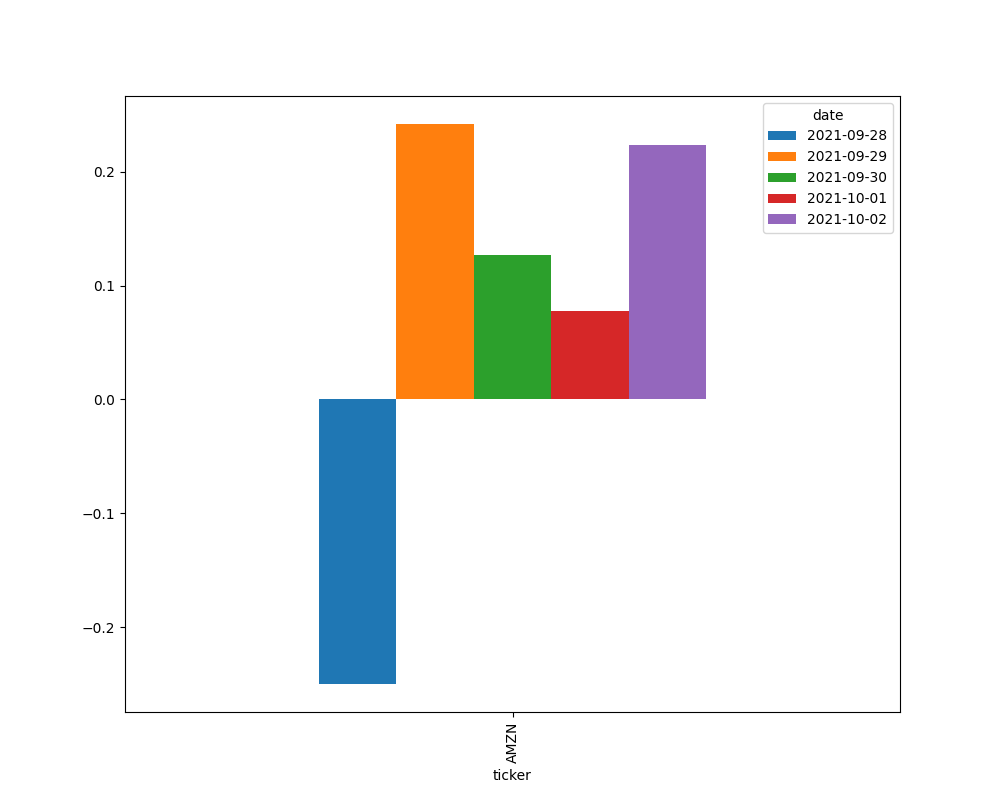
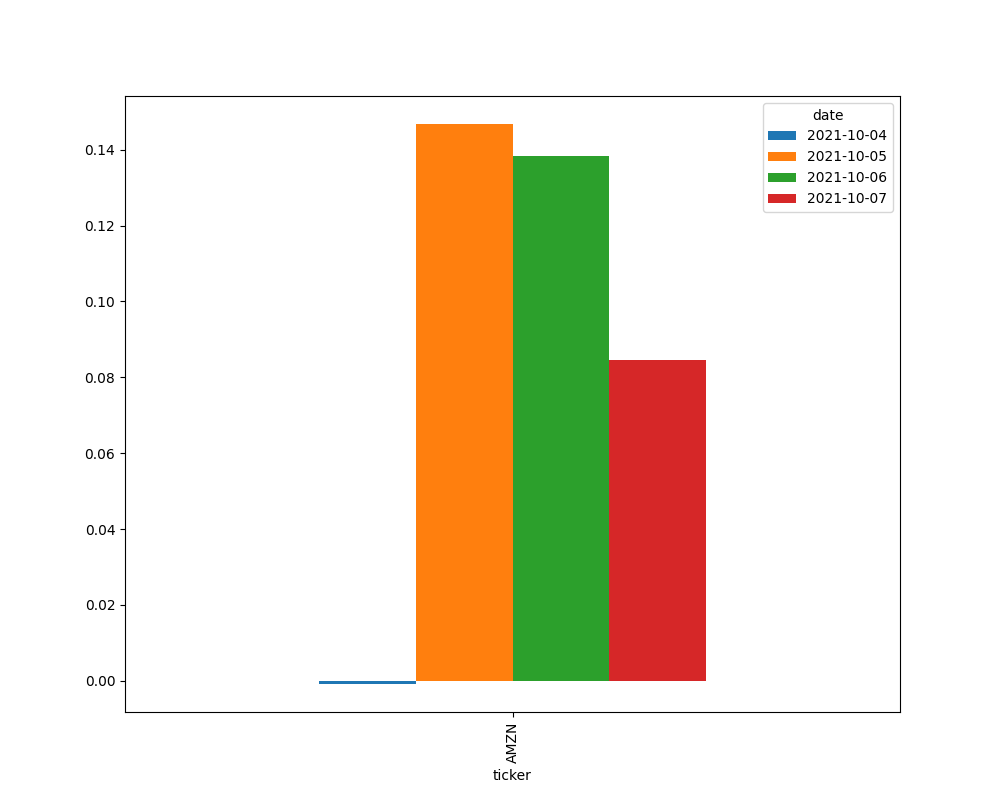
User Integeration

diff --git a/templates/StockNews/home.html b/templates/StockNews/home.html
@@ -1,26 +1,43 @@
-<!-- <!DOCTYPE html>
-{% load static %}
 <!DOCTYPE html>
 <html lang="en">
-<head>
-  <meta charset="UTF-8">
-  <meta http-equiv="X-UA-Compatible" content="IE=edge">
-  <meta name="viewport" content="width=device-width, initial-scale=1.0">
-  <title>Document</title>
-</head>
-<body>
-  <p>Welcome to Stock Market</p>
-</body>
-</html> -->
-<html lang="en" dir="ltr">
+  
   <head>
     <meta charset="utf-8">
-    <link rel="stylesheet" href="{% static 'css/home.css' %}">
     <link rel="stylesheet" href="https://maxcdn.bootstrapcdn.com/bootstrap/4.0.0/css/bootstrap.min.css" integrity="sha384-Gn5384xqQ1aoWXA+058RXPxPg6fy4IWvTNh0E263XmFcJlSAwiGgFAW/dAiS6JXm" crossorigin="anonymous">
     <script src="https://code.jquery.com/jquery-3.2.1.slim.min.js" integrity="sha384-KJ3o2DKtIkvYIK3UENzmM7KCkRr/rE9/Qpg6aAZGJwFDMVNA/GpGFF93hXpG5KkN" crossorigin="anonymous"></script>
     <script src="https://cdnjs.cloudflare.com/ajax/libs/popper.js/1.12.9/umd/popper.min.js" integrity="sha384-ApNbgh9B+Y1QKtv3Rn7W3mgPxhU9K/ScQsAP7hUibX39j7fakFPskvXusvfa0b4Q" crossorigin="anonymous"></script>
     <script src="https://maxcdn.bootstrapcdn.com/bootstrap/4.0.0/js/bootstrap.min.js" integrity="sha384-JZR6Spejh4U02d8jOt6vLEHfe/JQGiRRSQQxSfFWpi1MquVdAyjUar5+76PVCmYl" crossorigin="anonymous"></script>
+
+    <link rel="stylesheet" href="//code.jquery.com/ui/1.12.1/themes/base/jquery-ui.css">
+  
+    <script src="https://code.jquery.com/jquery-3.6.0.min.js" integrity="sha256-/xUj+3OJU5yExlq6GSYGSHk7tPXikynS7ogEvDej/m4=" crossorigin="anonymous"></script>
+    <script src="https://code.jquery.com/ui/1.12.0/jquery-ui.min.js" integrity="sha256-eGE6blurk5sHj+rmkfsGYeKyZx3M4bG+ZlFyA7Kns7E=" crossorigin="anonymous"></script>
+  
     <title>Financial News Analysis</title>
+
+    <script>
+      $( function() {
+        var availableTags = [
+          "Amazon",
+          "Tesla",
+          "Google",
+          "Apple",
+          "Facebook",
+          "Twitter",
+          "Credit Suisse",
+          "Pfizer Inc",
+          "Microsoft Corporation",
+          "Tata Motors Limited",
+          "Infosys Limited",
+          "Wipro Limited",
+          "Accenture plc",
+          "Reliance Global Group Inc"
+        ];
+        $( "#tags" ).autocomplete({
+          source: availableTags
+        });
+      } );
+      </script>
   </head>
   <body>
     
@@ -33,11 +50,11 @@
       <div class="row">
         <div class="col-sm-4">
 
-          <form class="" action="/home/search" method="post">
+          <form class="" action="search" method="post">
             <div class="row" style="margin-top:20px;">
               {% csrf_token %}
                 <div class="col-sm-10">
-                  <input class="form-control" type="search" name = "search_text" placeholder="Enter Company Name" aria-label="Search">
+                  <input class="form-control" type="search" id="tags" name = "search_text" placeholder="Enter Company Name" aria-label="Search">
                 </div>
                 <div class="col-sm-2">
                   <button class="btn btn-outline-success" type="submit" style="margin-left:-20px;">Search</button>
@@ -50,7 +67,7 @@
           </div>
           <div class="col-sm-10 mt-4 ml-2" id = "state_map">
             {{html_code|safe}}
-          </div>
+          </div>  
           {% endif %} -->
         </div>
         

diff --git a/templates/StockNews/test.html b/templates/StockNews/test.html
@@ -1,0 +1,12 @@
+<!DOCTYPE html>
+<html lang="en">
+<head>
+    <meta charset="UTF-8">
+    <meta http-equiv="X-UA-Compatible" content="IE=edge">
+    <meta name="viewport" content="width=device-width, initial-scale=1.0">
+    <title>Document</title>
+</head>
+<body>
+    <h1>Hello</h1>
+</body>
+</html>

diff --git a/StockNews/views.py b/StockNews/views.py
@@ -14,57 +14,63 @@ def greetings(request):
     res = render(request,'StockNews/home.html')
     return res
 
+def test(request):
+    return render(request, 'StockNews/test.html')
 # return home page with visualization
 def search(request):
-    
+    if request.method == 'POST':
+        company_name = request.POST['search_text']
+        company_ticker_data = pd.read_excel("companies.xlsx")
+        company_ticker = company_ticker_data.loc[company_ticker_data['company'] == company_name, 'ticker'].iloc[0]
+        finviz_url = 'https://finviz.com/quote.ashx?t='
+        tickers = []
+        tickers.append(company_ticker)
 
-    finviz_url = 'https://finviz.com/quote.ashx?t='
-    tickers = ['AMZN']
+        news_tables = {}
+        for ticker in tickers:
+            url = finviz_url + ticker
 
-    news_tables = {}
-    for ticker in tickers:
-        url = finviz_url + ticker
+            req = Request(url=url, headers={'user-agent': 'my-app'})
+            response = urlopen(req)
 
-        req = Request(url=url, headers={'user-agent': 'my-app'})
-        response = urlopen(req)
+            html = BeautifulSoup(response, features='html.parser')
+            news_table = html.find(id='news-table')
+            news_tables[ticker] = news_table
 
-        html = BeautifulSoup(response, features='html.parser')
-        news_table = html.find(id='news-table')
-        news_tables[ticker] = news_table
+        parsed_data = []
 
-    parsed_data = []
+        for ticker, news_table in news_tables.items():
 
-    for ticker, news_table in news_tables.items():
+            for row in news_table.findAll('tr'):
 
-        for row in news_table.findAll('tr'):
+                title = row.a.text
+                date_data = row.td.text.split(' ')
 
-            title = row.a.text
-            date_data = row.td.text.split(' ')
+                if len(date_data) == 1:
+                    time = date_data[0]
+                else:
+                    date = date_data[0]
+                    time = date_data[1]
 
-            if len(date_data) == 1:
-                time = date_data[0]
-            else:
-                date = date_data[0]
-                time = date_data[1]
+                parsed_data.append([ticker, date, time, title])
+        
+        df = pd.DataFrame(parsed_data, columns=['ticker', 'date', 'time', 'title'])
 
-            parsed_data.append([ticker, date, time, title])
-    print(parsed_data);
-    df = pd.DataFrame(parsed_data, columns=['ticker', 'date', 'time', 'title'])
+        vader = SentimentIntensityAnalyzer()
 
-    vader = SentimentIntensityAnalyzer()
+        f = lambda title: vader.polarity_scores(title)['compound']
+        df['compound'] = df['title'].apply(f)
+        df['date'] = pd.to_datetime(df.date).dt.date
 
-    f = lambda title: vader.polarity_scores(title)['compound']
-    df['compound'] = df['title'].apply(f)
-    df['date'] = pd.to_datetime(df.date).dt.date
+        # plt.figure(figsize=(10,8))
+        mean_df = df.groupby(['ticker', 'date']).mean().unstack()
+        mean_df = mean_df.xs('compound', axis="columns")
+        plot = mean_df.plot(figsize=(10,8),kind='bar')
+        # plt.show()
+        fig = plot.get_figure()
+        fig.savefig("static/images/output.png")
+        
+        # res = render(request,'StockNews/home.html')
+        res = render(request,'StockNews/home.html',{"img_name":"output.png"})
+        return res
 
-    # plt.figure(figsize=(10,8))
-    mean_df = df.groupby(['ticker', 'date']).mean().unstack()
-    mean_df = mean_df.xs('compound', axis="columns")
-    plot = mean_df.plot(figsize=(10,8),kind='bar')
-    # plt.show()
-    fig = plot.get_figure()
-    fig.savefig("static/images/output.png")
-
-    # res = render(request,'StockNews/home.html')
-    res = render(request,'StockNews/home.html',{"img_name":"output.png"})
-    return res

diff --git a/StockNews/urls.py b/StockNews/urls.py
@@ -4,7 +4,7 @@ from . import views
 
 urlpatterns = [
 
-    # path('',views.greetings,name='home')
-	url(r'',views.greetings),
-    url(r'^home/search$',views.search),
+	
+    path('',views.greetings),
+    path('search',views.search),
 ]
